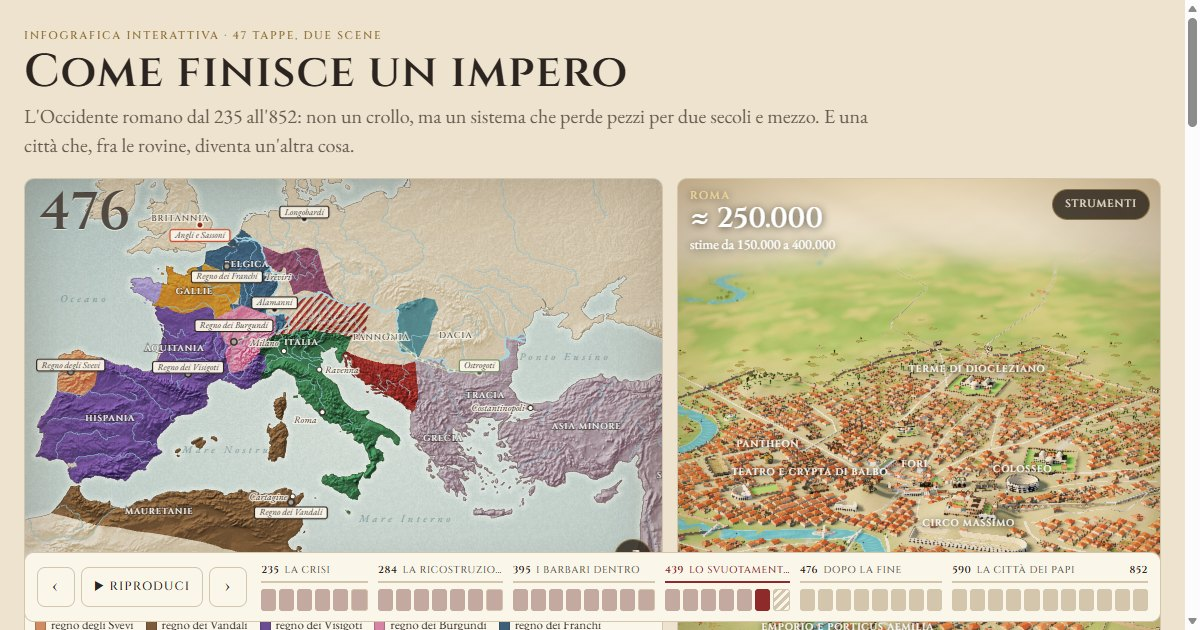
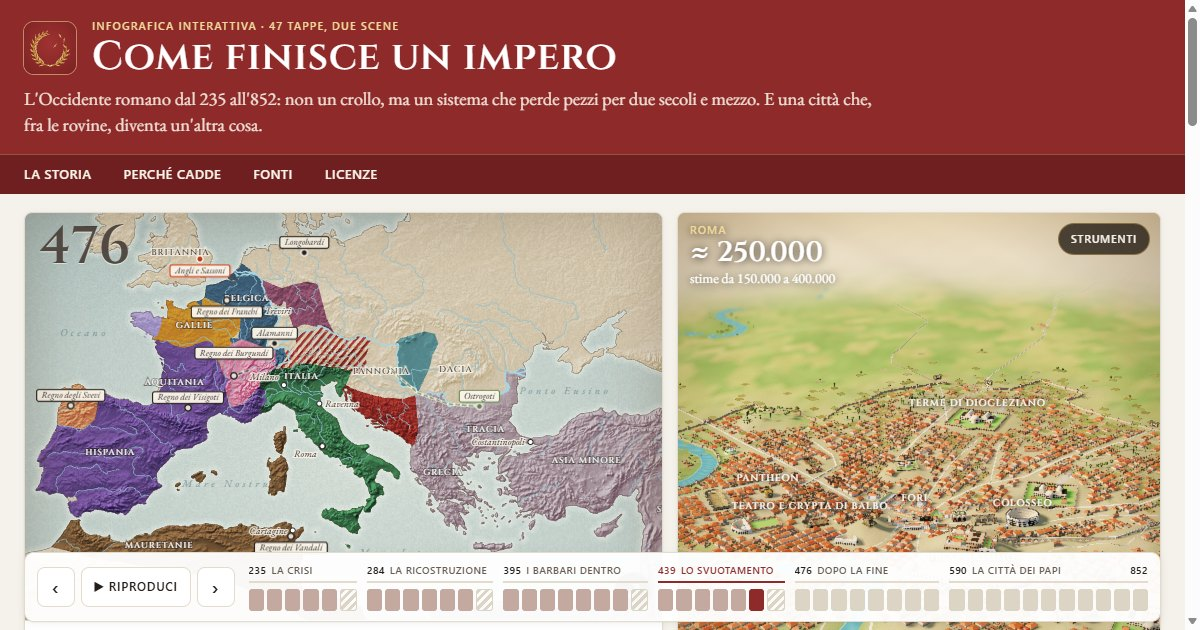
Nuova veste: fascia porpora con stemma e menu, fondo chiaro, riquadri bianchi, scritte di servizio senza grazie; icona rifatta (corona d'alloro); l'elenco dei monumenti mostra solo quelli esistenti; testi e schede aperti con CC BY-SA 4.0; riconciliazione con Taagepera sulle aree geodetiche dell'atla

diff --git a/index.html b/index.html
@@ -6,6 +6,7 @@
 <title>Come finisce un impero · L'Occidente romano dal 235 all'852</title>
 <meta name="description" content="L'Occidente romano dal 235 all'852 in 47 tappe: la carta dell'Impero che si disfa e Roma ricostruita in 3D, con le voci di chi c'era.">
 <meta name="theme-color" content="#8E2A2A">
+<link rel="icon" type="image/svg+xml" href="img/icona.svg">
 <link rel="icon" type="image/png" href="img/icona-48.png">
 <link rel="apple-touch-icon" href="img/icona-180.png">
 <meta property="og:type" content="website">
@@ -21,13 +22,21 @@
 <link rel="preconnect" href="https://fonts.googleapis.com">
 <link rel="preconnect" href="https://fonts.gstatic.com" crossorigin>
 <link href="https://fonts.googleapis.com/css2?family=Cinzel:wght@500;600;700&family=EB+Garamond:ital,wght@0,400;0,500;0,600;1,400&display=swap" rel="stylesheet">
-<link rel="stylesheet" href="css/stile.css?v=20261122-1006">
+<link rel="stylesheet" href="css/stile.css?v=20261122-1014">
 </head>
 <body>
 <header class="testata">
-  <p class="occhiello">Infografica interattiva · 47 tappe, due scene</p>
-  <h1>Come finisce un impero</h1>
-  <p class="sommario">L'Occidente romano dal 235 all'852: non un crollo, ma un sistema che perde pezzi per due secoli e mezzo. E una città che, fra le rovine, diventa un'altra cosa.</p>
+  <div class="testata-dentro">
+    <img class="stemma" src="img/icona.svg" width="52" height="52" alt="">
+    <div class="titoli">
+      <p class="occhiello">Infografica interattiva · 47 tappe, due scene</p>
+      <h1>Come finisce un impero</h1>
+    </div>
+    <p class="sommario">L'Occidente romano dal 235 all'852: non un crollo, ma un sistema che perde pezzi per due secoli e mezzo. E una città che, fra le rovine, diventa un'altra cosa.</p>
+  </div>
+  <nav class="menu" aria-label="Sezioni della pagina"><div class="menu-dentro">
+    <a href="#scene">La storia</a><a href="#cause">Perché cadde</a><a href="#fonti">Fonti</a><a href="#licenze">Licenze</a>
+  </div></nav>
 </header>
 
 <main>
@@ -112,9 +121,9 @@
     <div class="lato">
       <section class="cruscotto" id="cruscotto" aria-label="Indicatori"></section>
       <section class="stato-roma">
-        <p class="etichetta">I monumenti di Roma <span class="suggerimento">· tocca un nome per la scheda</span></p>
+        <p class="etichetta">I monumenti di Roma <span class="suggerimento" id="monumentiNota">· tocca un nome per la scheda</span></p>
         <p class="legenda">
-          <span class="st uso">in uso</span><span class="st chiuso">in disuso</span><span class="st spogliato">spogliato</span><span class="st cava">usato come cava</span><span class="st bruciato">bruciato</span><span class="st assente">non ancora costruito, o scomparso</span>
+          <span class="st uso">in uso</span><span class="st chiuso">in disuso</span><span class="st spogliato">spogliato</span><span class="st cava">usato come cava</span><span class="st bruciato">bruciato</span><span class="st crollato">danneggiato da un terremoto</span>
         </p>
         <ul class="monumenti" id="elencoMonumenti"></ul>
         <button type="button" class="tutti" id="btnMonumenti" aria-expanded="false" aria-controls="elencoMonumenti">Mostra tutti</button>
@@ -126,7 +135,7 @@
     <h2>Perché cadde l'Occidente?</h2>
     <p>Gli storici non sono d'accordo. Per Edward Gibbon la caduta fu «l'effetto naturale e inevitabile di una grandezza smisurata», e la sua opera racconta «il trionfo della barbarie e della religione». Peter Heather vede una spinta da fuori: gli Unni costringono i Goti a passare il Danubio nel 376 e spingono altri popoli oltre il Reno nel 405-408, e i popoli entrati nell'impero ne smontano le province. Guy Halsall rovescia l'ordine: è la crisi dell'impero a mettere in moto i barbari, non il contrario. Per A. H. M. Jones l'Occidente cadde soprattutto perché più esposto ai barbari dell'Oriente: le debolezze interne, troppe «bocche inutili» per troppo pochi produttori e tasse pesanti, contarono, ma meno; Chris Wickham guarda al fisco, che manteneva esercito e corte e in Occidente si spegne regno per regno, fra il V e il VII secolo. La perdita dell'Africa nel 439 pesa, per molti, più di ogni altra. Kyle Harper aggiunge clima ed epidemie; i suoi critici, con John Haldon, ribattono che le prove non bastano. Walter Goffart descrive un adattamento negoziato più che una conquista (quella che chiamiamo caduta fu, scrive, «un esperimento fantasioso un po' sfuggito di mano»), e molti parlano di «trasformazione»; Bryan Ward-Perkins risponde con l'archeologia: fra il V e il VII secolo il tenore di vita crolla, e lo dicono ceramiche, tegole, monete e la taglia dei bovini. Henri Pirenne metteva la vera rottura più tardi, con l'espansione araba che fa del Mediterraneo «un lago musulmano»: «Carlo Magno, senza Maometto, sarebbe inconcepibile».</p>
     <p>Questa pagina non sceglie una causa: mostra dove ciascuna spiegazione si vede. Gli Unni e il Danubio nel 376, il Reno nel 406, Cartagine nel 439 e la quota di territorio che crolla, il sole velato del 536 e la peste del 542 nella curva degli abitanti.</p>
-    <h3>Fonti</h3>
+    <h3 id="fonti">Fonti</h3>
     <p class="elenco"><b>Testi antichi e medievali letti:</b> Erodiano (in traduzione); Aurelio Vittore; l'Origine di Costantino; Ambrogio; Claudiano; Ammiano Marcellino; Lattanzio; Eutropio; Orosio; Zosimo; Procopio, Guerre (traduzione di Dewing); Prospero d'Aquitania; Idazio; Vittore di Vita; Giordane; Eugippio; Cassiodoro, Variae; Anonimo Valesiano; Marcellino Comes; Gregorio Magno; Gregorio di Tours; Paolo Diacono; Beda; Liber Pontificalis (edizione Duchesne); Annales regni Francorum; Cronografo del 354; le Novelle di Valentiniano III e di Maggioriano; l'Itinerario di Einsiedeln; l'iscrizione di Shapur I (in traduzione); Cipriano; l'editto dei prezzi di Diocleziano; Girolamo; Possidio; Salviano; Teofane; Eginardo; il Codex Carolinus (nella ristampa di Migne); gli Annali di San Bertino; Erchemperto; Ennodio; la Vita di Fulgenzio di Ruspe; i Fasti di Vienna; la Cronaca del 754; Gildas; la Historia Brittonum; gli Annali del Galles; la legge dei Burgundi; il Constitutum Constantini; Giovanni Diacono; Liutprando di Cremona; Incmaro di Reims; Jacopo da Varazze, Legenda aurea; Martino Polono; la Cronaca universale di Metz.</p>
     <p class="elenco"><b>Studi</b> (letti nel testo Gibbon e la conclusione di Jones; di Goffart, Halsall, Ward-Perkins, Wickham e Krautheimer sono stati verificati brani del testo; di Pirenne è stato letto l'articolo del 1922; del <i>Companion to Rome</i> i brani su abitanti e scavi; di Heather le pagine del libro del 2010 in cui riassume la sua tesi; di Durliat le pagine sugli abitanti di Roma): E. Gibbon, <i>The History of the Decline and Fall of the Roman Empire</i> (1776-1789); J. B. Bury, <i>History of the Later Roman Empire</i> (1923); S. B. Platner e T. Ashby, <i>A Topographical Dictionary of Ancient Rome</i> (1929); H. Pirenne, «Mahomet et Charlemagne», <i>Revue belge de philologie et d'histoire</i> 1 (1922), e il libro del 1937; A. H. M. Jones, <i>The Later Roman Empire</i> (1964); R. Krautheimer, <i>Rome. Profile of a City</i> (1980); W. Goffart, <i>Barbarians and Romans</i> (1980); J. Durliat, <i>De la ville antique à la ville byzantine</i> (1990); P. Heather, <i>The Fall of the Roman Empire</i> (2005) e <i>Empires and Barbarians</i> (2010); B. Ward-Perkins, <i>The Fall of Rome and the End of Civilization</i> (2005); C. Wickham, <i>Framing the Early Middle Ages</i> (2005); G. Halsall, <i>Barbarian Migrations and the Roman West</i> (2007); D. Robinson e A. Wilson sui relitti (2011) e la banca dati dei relitti di J. Strauss, A. Wilson e M. Flohr (Oxford Roman Economy Project, 2017); R. Taagepera, «Size and Duration of Empires: Growth-Decline Curves, 600 B.C. to 600 A.D.», <i>Social Science History</i> 3 (1979), letta la tabella su Roma; K. Harper, <i>The Fate of Rome</i> (2017) e la risposta di J. Haldon e altri (2018); J. McConnell e altri sul piombo nei ghiacci (2018); <i>A Companion to Rome c. 400-c. 1050</i>, Brill (2026).</p>
     <p class="elenco">Ciò che non è stato riletto, o su cui le fonti divergono, è detto nelle schede, nei riquadri degli storici e nelle note «Che cosa sappiamo».</p>
@@ -134,27 +143,27 @@
 </main>
 
 <footer class="piede">
-  <p>Ricostruzioni schematiche. Sulla mappa le regioni partono dalle province romane del 200 d.C. circa e, in Italia, dalle regioni augustee (Digital Atlas of the Roman Empire, di Johan Åhlfeldt, università di Lund e di Göteborg, licenza Creative Commons Attribuzione - Condividi allo stesso modo, CC BY-SA; coste: Natural Earth); dove i confini dei regni se ne scostano sono ritagliate a mano lungo fiumi, crinali e città nominati dalle fonti: sono confini indicativi, non rilevati. Rilievo e fiumi sono quelli veri (ombreggiatura e corsi d'acqua di Natural Earth, dominio pubblico). Stati delle regioni, confini dei regni e cammini dei popoli sono stati riveduti nel novembre 2026 (Bury, Ammiano, Zosimo, Eugippio, Beda e, per i confini, le voci di Wikipedia sui singoli regni); una parte delle date resta citata a memoria. La Corsica longobarda dal 725 circa è un'ipotesi dei manuali, senza una fonte diretta; quella franca è attestata dall'806. A Roma il corso del Tevere e il tracciato delle mura sono reali (© OpenStreetMap contributors); i colli sono ridisegnati alle quote antiche sopra un rilievo misurato (SRTM), con l'altezza accentuata di quasi due volte; gli edifici sono al loro posto ma schematici; le strade seguono le vie moderne che ricalcano le antiche (via del Corso per la via Lata, l'Appia Antica, via dei Coronari…) e, nel Foro, i basolati antichi ancora visibili (via Sacra, Argileto, vico Tusco, clivo Capitolino), con tratti a mano dove non c'è né l'una né l'altro; gli edifici del Foro e dei fori imperiali stanno sui centri dei loro resti; gli acquedotti hanno il percorso e le quote ricostruiti, non rilevati; gli isolati sono generati, l'abbandono per quartiere ipotizzato. I chilometri quadrati della spia «Occidente governato da Roma» sono misurati su questa carta, dove l'Occidente intero ne occupa circa 2,7 milioni e l'Oriente del 395 circa 2,1; Rein Taagepera (1979), misurando sugli atlanti, stima 4,4 milioni per l'impero del 390, 2,0 per l'Occidente e 2,1 per l'Oriente del 395: la differenza a Occidente dipende in buona parte da quanta Africa interna si conta. Linea continua: dato misurato. Linea tratteggiata: stima. Testi delle tappe, schede dei monumenti e didascalie degli eventi sono stati controllati sulle fonti nel novembre 2026; ciò che resta incerto o discusso è detto nelle schede.</p>
-                                                                                                                                        <p class="licenze">Licenze: il codice è libero (MIT); i confini della carta e le tabelle dei dati si possono riusare citando la fonte e con la stessa licenza (CC BY-SA 4.0); la topografia di Roma è © OpenStreetMap contributors (ODbL). I dettagli stanno in <a href="https://github.com/angrisanidj/caduta-impero/blob/main/LICENZA.md">LICENZA.md</a>.</p>
-      <p class="versione">Versione del 22/11/2026, ore 10:06</p>
+  <p>Ricostruzioni schematiche. Sulla mappa le regioni partono dalle province romane del 200 d.C. circa e, in Italia, dalle regioni augustee (Digital Atlas of the Roman Empire, di Johan Åhlfeldt, università di Lund e di Göteborg, licenza Creative Commons Attribuzione - Condividi allo stesso modo, CC BY-SA; coste: Natural Earth); dove i confini dei regni se ne scostano sono ritagliate a mano lungo fiumi, crinali e città nominati dalle fonti: sono confini indicativi, non rilevati. Rilievo e fiumi sono quelli veri (ombreggiatura e corsi d'acqua di Natural Earth, dominio pubblico). Stati delle regioni, confini dei regni e cammini dei popoli sono stati riveduti nel novembre 2026 (Bury, Ammiano, Zosimo, Eugippio, Beda e, per i confini, le voci di Wikipedia sui singoli regni); una parte delle date resta citata a memoria. La Corsica longobarda dal 725 circa è un'ipotesi dei manuali, senza una fonte diretta; quella franca è attestata dall'806. A Roma il corso del Tevere e il tracciato delle mura sono reali (© OpenStreetMap contributors); i colli sono ridisegnati alle quote antiche sopra un rilievo misurato (SRTM), con l'altezza accentuata di quasi due volte; gli edifici sono al loro posto ma schematici; le strade seguono le vie moderne che ricalcano le antiche (via del Corso per la via Lata, l'Appia Antica, via dei Coronari…) e, nel Foro, i basolati antichi ancora visibili (via Sacra, Argileto, vico Tusco, clivo Capitolino), con tratti a mano dove non c'è né l'una né l'altro; gli edifici del Foro e dei fori imperiali stanno sui centri dei loro resti; gli acquedotti hanno il percorso e le quote ricostruiti, non rilevati; gli isolati sono generati, l'abbandono per quartiere ipotizzato. I chilometri quadrati della spia «Occidente governato da Roma» sono misurati su questa carta, dove l'Occidente intero ne occupa circa 2,7 milioni. Il confronto con le stime di Rein Taagepera (1979, misurate sull'atlante storico di Shepherd) torna sull'impero intero: le province dell'atlante di Åhlfeldt sommano 4,9 milioni di km² verso il 200, e 4,5 tolte Mesopotamia, Dacia e Agri Decumates; Taagepera dà 4,6 per il 138, 4,5 per il 275 e 4,4 per il 390. Non torna sulla spartizione del 395: Taagepera assegna 2,0 milioni all'Occidente e 2,1 (± 0,3) all'Oriente, che insieme fanno 4,1 e non 4,4; sui poligoni l'Occidente vale 2,7 e l'Oriente 1,9. Le sue due metà («due parti pressoché uguali», scrive) sono arrotondate: qui l'Occidente risulta più grande di un terzo. Linea continua: dato misurato. Linea tratteggiata: stima. Testi delle tappe, schede dei monumenti e didascalie degli eventi sono stati controllati sulle fonti nel novembre 2026; ciò che resta incerto o discusso è detto nelle schede.</p>
+                                                                                                                                        <p class="licenze" id="licenze">Licenze: il codice è libero (MIT); testi, schede, confini della carta e tabelle dei dati si possono riusare citando la fonte e con la stessa licenza (CC BY-SA 4.0); la topografia di Roma è © OpenStreetMap contributors (ODbL). I dettagli stanno in <a href="https://github.com/angrisanidj/caduta-impero/blob/main/LICENZA.md">LICENZA.md</a>.</p>
+        <p class="versione">Versione del 22/11/2026, ore 10:14</p>
 </footer>
 
 <script src="https://cdnjs.cloudflare.com/ajax/libs/three.js/r128/three.min.js"></script>
 <script src="https://cdn.jsdelivr.net/npm/three@0.128.0/examples/js/controls/OrbitControls.js"></script>
-<script src="js/dati.js?v=20261122-1006"></script>
-<script src="js/mappa-dati.js?v=20261122-1006"></script>
-<script src="js/roma-topo.js?v=20261122-1006"></script>
-<script src="js/base.js?v=20261122-1006"></script>
-<script src="js/costruttore.js?v=20261122-1006"></script>
-<script src="js/monumenti.js?v=20261122-1006"></script>
-<script src="js/nuclei.js?v=20261122-1006"></script>
-<script src="js/mura.js?v=20261122-1006"></script>
-<script src="js/citta.js?v=20261122-1006"></script>
-<script src="js/vita.js?v=20261122-1006"></script>
-<script src="js/eventi.js?v=20261122-1006"></script>
-<script src="js/mappa.js?v=20261122-1006"></script>
-<script src="js/pagina.js?v=20261122-1006"></script>
-<script src="js/itinerario.js?v=20261122-1006"></script>
-<script src="js/confronto.js?v=20261122-1006"></script>
+<script src="js/dati.js?v=20261122-1014"></script>
+<script src="js/mappa-dati.js?v=20261122-1014"></script>
+<script src="js/roma-topo.js?v=20261122-1014"></script>
+<script src="js/base.js?v=20261122-1014"></script>
+<script src="js/costruttore.js?v=20261122-1014"></script>
+<script src="js/monumenti.js?v=20261122-1014"></script>
+<script src="js/nuclei.js?v=20261122-1014"></script>
+<script src="js/mura.js?v=20261122-1014"></script>
+<script src="js/citta.js?v=20261122-1014"></script>
+<script src="js/vita.js?v=20261122-1014"></script>
+<script src="js/eventi.js?v=20261122-1014"></script>
+<script src="js/mappa.js?v=20261122-1014"></script>
+<script src="js/pagina.js?v=20261122-1014"></script>
+<script src="js/itinerario.js?v=20261122-1014"></script>
+<script src="js/confronto.js?v=20261122-1014"></script>
 </body>
 </html>

diff --git a/css/stile.css b/css/stile.css
@@ -2,7 +2,9 @@
   --cap:'Cinzel','Trajan Pro',Georgia,'Times New Roman',serif;
   --serif:'EB Garamond','Iowan Old Style','Palatino Linotype',Palatino,Georgia,serif;
   --gold:#A87B2A;--gold2:#D4AE55;--gold3:#F1D99A;--oro-t:#7D591A;      /* --oro-t: l'oro delle scritte piccole, scurito perché si legga sul fondo (contrasto sopra 4,5 a 1) */
-  --ink:#2B2420;--carta:#EDE3CE;--carta2:#FBF6EA;--line:#D3C6AD;--muted:#675B4F;
+  --ink:#241E1A;--carta:#F5F2EC;--carta2:#FFFFFF;--line:#E2DBCE;--muted:#655B51;
+  --ui:system-ui,-apple-system,'Segoe UI',Roboto,'Helvetica Neue',Arial,sans-serif;      /* scritte di servizio: etichette, legende, bottoni, note */
+  --ombra:0 1px 2px rgba(36,30,26,.06),0 2px 8px rgba(36,30,26,.04);
   --porpora:#8E2A2A;--vetro:rgba(33,25,18,.78);
   /* stati delle regioni */
   --st-roma:#9A2F2A;--st-usurpatore:#C98A2B;--st-federati:#6E8B5B;--st-regno:#4D6B7C;--st-oriente:#AF9DA7;--st-califfato:#3F8F86;--st-carolingio:#5A3F78;--st-perso:#DCD0B8;--st-chiesa:#E6C55A;
@@ -430,3 +432,76 @@ body.impero-grande .tempo,body.roma-grande .tempo{touch-action:manipulation}
 }
 .piede .licenze{margin-top:10px;font-style:normal}
 .piede a{color:inherit;text-decoration-color:var(--gold)}
+
+/* ---------- veste del 22 novembre 2026 ----------
+   Fondo chiaro e neutro, riquadri bianchi con un filo d'ombra; il Cinzel resta ai titoli e ai numeri, il Garamond al racconto,
+   un carattere senza grazie (quello del dispositivo) alle scritte di servizio. In testa una fascia porpora con lo stemma e un menu. */
+body{background:var(--carta)}
+/* intestazione */
+.testata{max-width:none;margin:0;padding:0;background:var(--porpora);color:#FBF6EA}
+.testata-dentro{max-width:1280px;margin:0 auto;padding:18px 24px 16px;display:grid;grid-template-columns:auto 1fr;column-gap:16px;row-gap:8px;align-items:center}
+.stemma{display:block;width:52px;height:52px;border-radius:10px;box-shadow:0 0 0 1px rgba(241,217,154,.55)}
+.testata .occhiello{font-family:var(--ui);font-size:11px;font-weight:600;letter-spacing:.1em;color:var(--gold3)}
+.testata h1{margin:2px 0 0;font-size:clamp(24px,3.4vw,40px);color:#fff}
+.testata .sommario{grid-column:1/-1;max-width:46em;font-size:18.5px;line-height:1.4;color:rgba(251,246,234,.9)}
+.menu{background:#6F1F1F;border-top:1px solid rgba(241,217,154,.28)}
+.menu-dentro{max-width:1280px;margin:0 auto;padding:0 24px;display:flex;gap:4px;overflow-x:auto;scrollbar-width:none}
+.menu-dentro::-webkit-scrollbar{display:none}
+.menu a{flex:none;padding:10px 14px 9px;font-family:var(--ui);font-size:12.5px;font-weight:600;letter-spacing:.06em;text-transform:uppercase;color:#FBF6EA;text-decoration:none;border-bottom:2px solid transparent}
+.menu a:first-child{margin-left:-14px}
+.menu a:hover,.menu a:focus-visible{border-bottom-color:var(--gold2);outline:0}
+main{margin-top:18px}
+/* scritte di servizio */
+.etichetta,.occhiello,.cause h3{font-family:var(--ui);font-weight:600;letter-spacing:.09em}
+.atto{font-family:var(--ui);font-weight:600;font-size:11.5px;letter-spacing:.09em}
+.atto b{font-family:var(--cap)}
+.suggerimento{font-family:var(--ui);font-weight:400;font-size:12px}
+.legenda-mappa,.legenda-popoli,.legenda,.spia small,.versione,.piede .licenze,.voce .chi,.protagonisti .date,.scheda .stato,.scheda .certezza,.legenda-sapere,.fumetto{font-family:var(--ui)}
+.legenda-mappa,.legenda-popoli,.legenda{font-size:12.5px}
+.legenda-popoli b{font-family:var(--ui);font-size:11px;letter-spacing:.08em}
+.legenda-popoli em{font-family:var(--serif);font-size:14px}
+.spia small{font-size:12px;line-height:1.35}
+.voce .chi{font-size:12.5px;line-height:1.4;opacity:1;color:var(--muted)}
+.protagonisti .date{font-size:12px}
+.versione,.piede .licenze{font-size:12.5px}
+.fumetto{font-size:13.5px}
+.comandi button,.schede button,.tutti,.atto-gruppo p{font-family:var(--ui);font-weight:600;letter-spacing:.06em}
+.atto-gruppo p{font-weight:500;letter-spacing:.04em}
+.strumenti button,.pellegrino,.confronto .viste button,.scheda .passi button,body.tocco:not(.roma-grande) .esplora{font-family:var(--ui);font-weight:600;letter-spacing:.06em}
+.strumenti button{font-size:11px}
+/* riquadri */
+.riquadro,.tempo,.spia,.voce,.storici{box-shadow:var(--ombra)}
+.riquadro{border-radius:8px}
+.spia{border-radius:8px}
+.voce,.storici{border:1px solid var(--line);border-left:3px solid var(--porpora);border-radius:4px 8px 8px 4px}
+.storici{border-left-color:var(--gold2)}
+.storici.leggenda{border-left-color:#7F95A3}
+.tempo{border-radius:10px;background:rgba(255,255,255,.96)}
+body.roma-grande .tempo,body.impero-grande .tempo{background:rgba(255,255,255,.94)}
+.linea button{background:#DCD4C5}
+.linea button.intermezzo{background:repeating-linear-gradient(135deg,#DCD4C5 0 3px,transparent 3px 6px);border:1px solid #DCD4C5}
+.comandi button{background:var(--carta2)}
+.comandi button:hover{border-color:var(--porpora);color:var(--porpora)}
+.schede button{background:var(--carta2)}
+/* elenco dei monumenti */
+.monumenti{font-family:var(--ui);font-size:13.5px}
+.monumenti li{padding:3px 0}
+.monumenti li[hidden],.st[hidden],.tutti[hidden]{display:none}
+/* le ragioni, le fonti, il piede */
+.cause{border-top:1px solid var(--line)}
+.piede{margin-top:34px;padding-top:22px;border-top:1px solid var(--line);font-style:normal;font-size:14px;line-height:1.5}
+@media (max-width:1000px){
+  .testata-dentro{padding:14px 16px 12px;column-gap:12px;row-gap:6px}
+  .menu-dentro{padding:0 16px}
+  .testata .sommario{font-size:16px}
+  main{margin-top:12px}
+}
+@media (max-width:520px){
+  .stemma{width:44px;height:44px;border-radius:8px}
+  .testata .occhiello{display:none}
+  .testata h1{font-size:23px;line-height:1.12}
+  .testata .sommario{font-size:15.5px;line-height:1.38}
+  .menu a{padding:9px 10px 8px;font-size:11.5px}
+  .menu a:first-child{margin-left:-10px}
+  .monumenti{font-size:13px}
+}

diff --git a/js/dati.js b/js/dati.js
@@ -111,7 +111,7 @@
      COMMERCI: la curva è ora il conteggio dei relitti datati della banca dati OxREP (Strauss, Wilson, Flohr 2017, versione 2.1: 1.751 relitti con date), ognuno distribuito in modo uniforme sul suo intervallo di date
      (il metodo di Wilson), per anno, I secolo = 100. Conteggio rifatto qui sul file scaricato. Col metodo dei punti medi c'è un falso picco nell'800-849: non usarlo. A ovest dei 19° E il calo è molto più ripido (3-4 dopo il 500).
      POSIZIONI: ponte di Probo, coerente con Platner e Ashby («a little south of the north corner of the Aventine»; resti tolti dal fiume nel 1878) e lasciato dov'è: la coordinata di Wikidata cade fuori dal fiume;
-     tempio del Sole, a circa 70 m dal punto dato dalle voci enciclopediche («its exact location is not certain»): lasciato dov'è. Superficie dell'impero: LETTO il 22 novembre 2026 Taagepera 1979, tabella 2 a p. 125 (scansione su archive.org, taagepera-size-and-duration-of-empires-600-bc-to-600-ad; cifre controllate sull'immagine della pagina, in milioni di km²): Roma 117: 5,0; 138: 4,6; 275: 4,5; 390: 4,4; «Western Rome» 395: 2,0; 476: 0; impero bizantino 395: 2,1 ± 0,3; 450: 2,8; 486: 1,6; 527: 1,9 ± 0,3; 555: 2,7; 570: 2,3 ± 0,3; 591: 2,5; 600: 2,3; 700 e 750: 1,0 (la voce inglese di Wikipedia dà 3,4 per il 390 citando la stessa pagina: è un errore). Sulla nostra carta (js/mappa.js, kmqOvest) l'Occidente misura circa 2,75 milioni di km² e l'Oriente senza la Dacia 2,11: l'Oriente coincide, l'Occidente no (le due Mauretanie da sole valgono qui 480 mila km², l'Africa in tutto 670 mila). La spia mostra i km² misurati sulla carta, non quelli di Taagepera.
+     tempio del Sole, a circa 70 m dal punto dato dalle voci enciclopediche («its exact location is not certain»): lasciato dov'è. Superficie dell'impero: LETTO il 22 novembre 2026 Taagepera 1979, tabella 2 a p. 125 (scansione su archive.org, taagepera-size-and-duration-of-empires-600-bc-to-600-ad; cifre controllate sull'immagine della pagina, in milioni di km²): Roma 117: 5,0; 138: 4,6; 275: 4,5; 390: 4,4; «Western Rome» 395: 2,0; 476: 0; impero bizantino 395: 2,1 ± 0,3; 450: 2,8; 486: 1,6; 527: 1,9 ± 0,3; 555: 2,7; 570: 2,3 ± 0,3; 591: 2,5; 600: 2,3; 700 e 750: 1,0 (la voce inglese di Wikipedia dà 3,4 per il 390 citando la stessa pagina: è un errore). Sulla nostra carta (js/mappa.js, kmqOvest) l'Occidente misura circa 2,75 milioni di km² e l'Oriente senza la Dacia 2,11: RICONCILIAZIONE (src/mappa/aree.mjs: aree geodetiche dei poligoni dell'atlante di Åhlfeldt, verso il 200): totale 4,875; tolte Armenia e Mesopotamia (0,20) 4,67, contro il 4,6 di Taagepera per il 138; tolti anche Dacia (0,09) e Agri Decumates (0,04) 4,54, contro 4,5 per il 275 e 4,4 per il 390: sull'impero intero le due misure coincidono entro il 3%. Sulla spartizione no: i poligoni danno Occidente 2,67 (Britannia 0,14, Gallie e Germanie 0,68, Spagne 0,59, Italia e isole 0,32, Rezia-Norico-Pannonie-Dalmazia 0,32, Africa 0,66) e Oriente 1,87; Taagepera 2,0 e 2,1 ± 0,3, che sommati fanno 4,1 e non il suo 4,4 («two fairly equal parts»: metà arrotondate; errore dichiarato 10%). Le sue aree per Roma vengono dall'atlante di Shepherd (codice m), per Bisanzio da Hazard (n); la carta di Shepherd del 395 NON è stata vista (Wikimedia rispondeva 429): se il suo Occidente sia più piccolo per l'Africa interna resta un'ipotesi. La spia mostra i km² misurati sulla carta, non quelli di Taagepera.
      LICENZA dei poligoni: il deposito GitHub non la dichiara; il catalogo Open EpiHub del CNR dà per il Digital Atlas «CC BY-SA 4.0 International • CC BY-SA 3.0 Unported»; il sito dell'atlante non rispondeva;
    - letti il 21 novembre 2026, tarda sera (ultima ricerca sulle letture non riuscite):
      J. Durliat, De la ville antique à la ville byzantine, 1990, su Persée, pagina per pagina: p. 116, Roma nel IV secolo, «une population de citoyens originaires de Rome d'environ 650 000 personnes

diff --git a/js/pagina.js b/js/pagina.js
@@ -69,9 +69,11 @@ var voci=(RM.MONUMENTI||[]).map(function(m){
 });
 if(!voci.length) document.querySelector('.stato-roma').hidden=true;
 /* sui telefoni l'elenco è lungo: si apre per intero solo a richiesta (il bottone si vede solo lì, css/stile.css) */
+var contaElenco=0, contaMonumenti=function(){};
 (function(){ var sr=document.querySelector('.stato-roma'), bm=$('btnMonumenti'); if(!bm) return;
-  function scrivi(){ var c=sr.classList.contains('corto'); bm.setAttribute('aria-expanded',c?'false':'true'); bm.textContent=c?'Mostra tutti i '+voci.length+' monumenti':'Mostra meno'; }
-  sr.classList.add('corto'); scrivi(); bm.addEventListener('click',function(){ sr.classList.toggle('corto'); scrivi(); });
+  function scrivi(){ var c=sr.classList.contains('corto'); bm.setAttribute('aria-expanded',c?'false':'true'); bm.textContent=c?'Mostra tutti i '+contaElenco+' monumenti':'Mostra meno'; bm.hidden=contaElenco<=20; }      // venti stanno nelle due colonne dell'elenco corto
+  sr.classList.add('corto'); bm.addEventListener('click',function(){ sr.classList.toggle('corto'); scrivi(); });
+  contaMonumenti=function(n){ contaElenco=n; scrivi(); };
 })();
 /* scheda di un monumento: che cos'è, in che stato è nell'anno corrente, le date che contano */
 var schedaDi=null, schedaChiave='';
@@ -112,12 +114,19 @@ voci.forEach(function(v){
   v.li.addEventListener('keydown',function(ev){ if(ev.key==='Enter'||ev.key===' '){ ev.preventDefault(); apriScheda(v.m); } });
 });
 RM.apriScheda=function(id){ voci.forEach(function(v){ if(v.m.id===id) apriScheda(v.m); }); };
+/* Nell'elenco stanno solo i monumenti che in quell'anno ci sono, anche in disuso o in rovina: quelli non ancora costruiti e quelli scomparsi non compaiono. La legenda mostra solo gli stati presenti. */
+var legendaStati=[].slice.call(document.querySelectorAll('.stato-roma .legenda .st'));
 function scriviMonumenti(){
+  var cambiato=false;
   voci.forEach(function(v){
     var q=RM.statoMonumento(v.m.id,anno), st=q.t>.5?q.s1:q.s0; if(st===v.st) return;
-    v.st=st; v.li.className=st+(v.m===schedaDi?' scelto':''); v.li.title=nomeStato(v.m,st);
+    v.st=st; v.li.className=st+(v.m===schedaDi?' scelto':''); v.li.title=nomeStato(v.m,st); v.li.hidden=st==='assente'; cambiato=true;
     v.s.textContent=v.m.nome+(v.m.note&&v.m.note[st]?' · '+v.m.note[st]:'');
   });
+  if(!cambiato) return;
+  var ci={}, n=0; voci.forEach(function(v){ if(v.st!=='assente'){ ci[v.st]=1; n++; } });
+  legendaStati.forEach(function(e){ var k=e.className.replace('st ',''); e.hidden=!ci[k]; });
+  contaMonumenti(n);
 }
 
 /* ---------- linea del tempo ---------- */
@@ -254,5 +263,6 @@ if(m){ vai(parseInt(m[1],10)-1,true); }
 else{                                   // apertura dalla fine: la città del 550, poi il riavvolgimento
   anno=550; vai(0); vel=(550-T[0].anno)/4.5; applica();
 }
+[].forEach.call(document.querySelectorAll('.menu a'),function(a){ a.addEventListener('click',function(e){ var el=document.getElementById(a.getAttribute('href').slice(1)); if(el){ e.preventDefault(); el.scrollIntoView({behavior:'smooth',block:'start'}); } }); });
 window.RM_pagina={vai:vai, ferma:ferma, tappa:function(){ return idx; }, annoOra:function(){ return anno; }, anno:function(y){ anno=meta=y; applica(); }};      // anno(y): porta la scena a un anno qualsiasi senza cambiare tappa (js/confronto.js)
 })();

diff --git a/CLAUDE.md b/CLAUDE.md
@@ -32,11 +32,13 @@ Convenzioni: 1 unità = 10 m; origine al Foro Romano (41.8925 N, 12.4853 E); x v
 ## Lavorare
 
 - Linea del tempo (`js/pagina.js`): sopra ogni atto l'anno in cui comincia; il dito o il mouse scorre sulla barra e un fumetto dice anno e titolo, al rilascio si va alla tappa. Sui telefoni l'elenco dei monumenti è corto e si apre con un bottone; la spia della moneta esce dopo il 330. Le scritte dorate piccole usano `--oro-t` (contrasto sopra 4,5 a 1 sul fondo). I chilometri quadrati della spia del territorio sono misurati sulla carta (`RM_mappa.kmqOvest()`).
-- Licenze in `LICENZA.md` (codice MIT, dati CC BY-SA 4.0, topografia di Roma ODbL, testi riservati) e in una riga in fondo alla pagina.
+- Veste (in fondo a `css/stile.css`): fascia porpora in testa con stemma e menu (`.testata`, `.menu`), fondo chiaro `--carta`, riquadri bianchi, carattere `--ui` (senza grazie, del dispositivo) per le scritte di servizio; Cinzel solo per titoli e numeri, Garamond per il racconto. L'elenco dei monumenti mostra solo quelli che in quell'anno esistono (gli `assente` sono nascosti).
+- `src/mappa/aree.mjs` stampa le aree geodetiche delle province dell'atlante (confronto con Taagepera 1979, annotato in testa a `js/dati.js`).
+- Licenze in `LICENZA.md` (codice MIT; dati, testi e schede CC BY-SA 4.0; topografia di Roma ODbL) e in una riga in fondo alla pagina.
 - Anteprima: `python -m http.server 8766` (configurazione `caduta` in `.claude/launch.json`). Il server non invalida la cache: prima di ricaricare, `fetch(src,{cache:'reload'})` con l'indirizzo esatto dei tag `<script>` e `<link>` (hanno `?v=…` in coda: senza, si rinfresca un'altra voce della cache).
 - Controllo sintassi: `node --check js/<file>.js`.
 - Fra due tappe il tempo scorre in meno di due secondi: un evento si vede solo se cade nell'anno di una tappa.
 - Se il pannello di anteprima è nascosto le animazioni non girano: per vedere un fotogramma chiamare a mano `RM.frame.forEach(f=>f(.1))`.
-- Anteprima del link (`img/anteprima.jpg`, 1200 x 630, citata nei tag `og:` di `index.html`) e icone (`img/icona-*.png`): l'immagine è una cattura della pagina alla tappa del 476 fatta con Edge senza finestra (`msedge --headless=new --screenshot=… --window-size=1200,630 --virtual-time-budget=15000 "http://localhost:8766/#tappa-27"`), poi convertita in JPEG. Va rifatta se cambia l'aspetto della pagina.
+- Anteprima del link (`img/anteprima.jpg`, 1200 x 630, citata nei tag `og:` di `index.html`) e icone (`img/icona.svg`, una corona d'alloro che perde foglie, disegnata da `src/icona.mjs`: `node src/icona.mjs img/icona.svg`; `img/icona-*.png` ne sono la resa a 180 e a 48 punti, fatta con Edge senza finestra e ridotta con PIL): l'immagine è una cattura della pagina alla tappa del 476 fatta con Edge senza finestra (`msedge --headless=new --screenshot=… --window-size=1200,630 --virtual-time-budget=15000 "http://localhost:8766/#tappa-27"`), poi convertita in JPEG. Va rifatta se cambia l'aspetto della pagina.
 - Pubblicare: `node src/pubblica.mjs` (aggiorna la versione sui file e in fondo alla pagina), poi commit e push su `main`.
 - Le ricerche con subagenti sono la voce più costosa: controllare il consumo prima di avviarle. L'utente non vuole spendere in uso extra.

diff --git a/LICENZA.md b/LICENZA.md
@@ -1,6 +1,6 @@
 # Licenze
 
-In questo progetto stanno insieme cose con licenze diverse. In breve: il codice e i dati si possono riusare, alle condizioni scritte qui sotto.
+In questo progetto stanno insieme cose con licenze diverse. In breve: codice, dati e testi si possono riusare, alle condizioni scritte qui sotto.
 
 ## Codice: licenza MIT
 
@@ -20,9 +20,9 @@ THE SOFTWARE IS PROVIDED "AS IS", WITHOUT WARRANTY OF ANY KIND, EXPRESS OR IMPLI
 - **Topografia di Roma** (`js/roma-topo.js`, generato da `src/roma/genera.mjs`): Tevere, mura, porte e strade sono © OpenStreetMap contributors, con licenza Open Database License 1.0 (https://opendatacommons.org/licenses/odbl/1-0/); le quote sono SRTM (NASA), di dominio pubblico.
 - **Tabelle di `js/dati.js`** (stati delle regioni per anno, curve, storie dei monumenti): CC BY-SA 4.0. La curva dei commerci è ricavata dalla banca dati dei relitti dell'Oxford Roman Economy Project (J. Strauss, A. Wilson, M. Flohr, 2017).
 
-## Testi e immagini
+## Testi e immagini: CC BY-SA 4.0
 
-I testi delle tappe, delle schede e dei riquadri, e l'immagine `img/anteprima.jpg`, sono di Daniele Angrisani: tutti i diritti riservati, salvo diversa indicazione. Le citazioni dei testi antichi sono traduzioni fatte per questa pagina dalle edizioni indicate nei commenti di `js/dati.js`.
+I testi delle tappe, delle schede dei monumenti e dei riquadri (in `js/dati.js` e in `index.html`), l'icona (`img/icona.svg`) e l'immagine `img/anteprima.jpg` sono di Daniele Angrisani e si possono riusare con la licenza Creative Commons Attribuzione - Condividi allo stesso modo 4.0 Internazionale (https://creativecommons.org/licenses/by-sa/4.0/deed.it): citando l'autore e la pagina («Come finisce un impero», https://angrisanidj.github.io/caduta-impero/) e distribuendo ciò che se ne ricava con la stessa licenza. Le citazioni dei testi antichi sono traduzioni fatte per questa pagina dalle edizioni indicate nei commenti di `js/dati.js`.
 
 ## Cose di altri usate dalla pagina
 

diff --git a/README.md b/README.md
@@ -21,4 +21,4 @@ poi `http://localhost:8766`.
 
 ## Licenze
 
-Codice: MIT. Confini della carta e tabelle dei dati: CC BY-SA 4.0 (i confini derivano dal Digital Atlas of the Roman Empire di Johan Åhlfeldt). Topografia di Roma: © OpenStreetMap contributors, ODbL. Testi e immagini: tutti i diritti riservati. I dettagli in [LICENZA.md](LICENZA.md).
+Codice: MIT. Confini della carta e tabelle dei dati: CC BY-SA 4.0 (i confini derivano dal Digital Atlas of the Roman Empire di Johan Åhlfeldt). Testi, schede e immagini: CC BY-SA 4.0. Topografia di Roma: © OpenStreetMap contributors, ODbL. I dettagli in [LICENZA.md](LICENZA.md).
